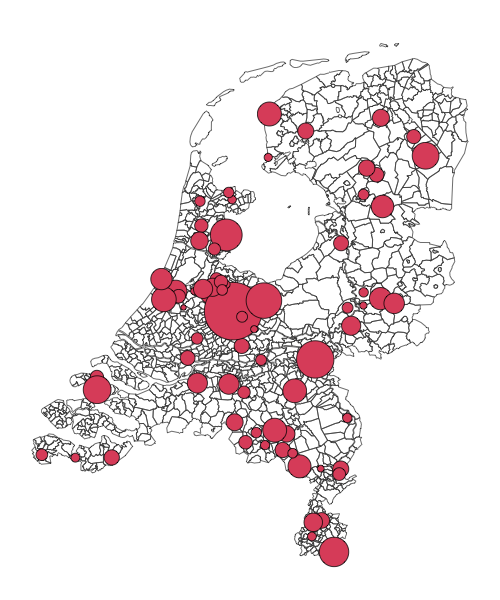
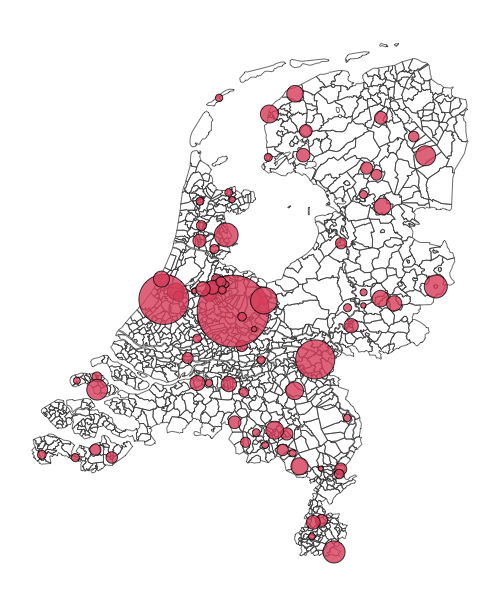
update current sample

diff --git a/content/sample.md b/content/sample.md
@@ -6,7 +6,7 @@ type: "page"
 
 The project samples a number of municipalities. The reason for this that reason is that we want to be able to infer incomes for the missing population, which is only possible if we have the entire taxed population for a given municipality. 
 
-![](../images/currentsample.png)
+![Municipalities in the sample, scaled by number of observations over the entire 1850–1920 period](/images/currentsample.png)
 
 |province      |municipality                |  dec|     N|
 |:-------------|:---------------------------|----:|-----:|
@@ -46,10 +46,14 @@ The project samples a number of municipalities. The reason for this that reason 
 |Drenthe       |Zuidwolde                   | 1900|  1133|
 |Drenthe       |Zuidwolde                   | 1910|   705|
 |Drenthe       |Zuidwolde                   | 1920|   927|
+|Friesland     |Doniawerstal                | 1860|   507|
+|Friesland     |Doniawerstal                | 1870|   761|
+|Friesland     |Doniawerstal                | 1880|   888|
+|Friesland     |Doniawerstal                | 1900|   843|
 |Friesland     |Harlingen                   | 1860|   545|
-|Friesland     |Harlingen                   | 1870|   566|
-|Friesland     |Harlingen                   | 1880|    36|
-|Friesland     |Harlingen                   | 1890|   969|
+|Friesland     |Harlingen                   | 1870|   572|
+|Friesland     |Harlingen                   | 1880|    37|
+|Friesland     |Harlingen                   | 1890|   978|
 |Friesland     |Harlingen                   | 1910|  1316|
 |Friesland     |Harlingen                   | 1920|  1864|
 |Friesland     |Hindeloopen                 | 1860|   136|
@@ -57,17 +61,32 @@ The project samples a number of municipalities. The reason for this that reason 
 |Friesland     |Hindeloopen                 | 1880|   112|
 |Friesland     |Hindeloopen                 | 1890|   123|
 |Friesland     |Hindeloopen                 | 1900|   145|
+|Friesland     |Hindeloopen                 | 1910|   148|
+|Friesland     |Hindeloopen                 | 1920|   272|
 |Friesland     |Rauwerderhem                | 1860|   365|
 |Friesland     |Rauwerderhem                | 1870|   383|
+|Friesland     |Rauwerderhem                | 1880|   314|
 |Friesland     |Rauwerderhem                | 1900|   341|
 |Friesland     |Rauwerderhem                | 1910|   535|
 |Friesland     |Rauwerderhem                | 1920|   744|
+|Friesland     |Vlieland                    | 1860|    99|
+|Friesland     |Vlieland                    | 1870|   117|
+|Friesland     |Vlieland                    | 1880|   109|
+|Friesland     |Vlieland                    | 1890|   126|
+|Friesland     |Vlieland                    | 1900|   126|
+|Friesland     |Vlieland                    | 1910|   163|
+|Friesland     |Vlieland                    | 1920|   157|
+|Friesland     |het Bildt                   | 1870|   578|
+|Friesland     |het Bildt                   | 1880|   572|
+|Friesland     |het Bildt                   | 1890|   552|
+|Friesland     |het Bildt                   | 1900|   599|
+|Friesland     |het Bildt                   | 1920|  2256|
 |Gelderland    |Beesd                       | 1870|   232|
 |Gelderland    |Beesd                       | 1880|   245|
 |Gelderland    |Beesd                       | 1890|   252|
 |Gelderland    |Beesd                       | 1900|   319|
 |Gelderland    |Beesd                       | 1910|   385|
-|Gelderland    |Beesd                       | 1920|   678|
+|Gelderland    |Beesd                       | 1920|   679|
 |Gelderland    |Borculo                     | 1870|   300|
 |Gelderland    |Borculo                     | 1880|   687|
 |Gelderland    |Borculo                     | 1890|   775|
@@ -82,7 +101,7 @@ The project samples a number of municipalities. The reason for this that reason 
 |Gelderland    |Gorssel                     | 1880|   816|
 |Gelderland    |Hattem                      | 1890|   350|
 |Gelderland    |Hattem                      | 1910|   472|
-|Gelderland    |Hattem                      | 1920|  1255|
+|Gelderland    |Hattem                      | 1920|  1262|
 |Gelderland    |Lochem                      | 1870|   399|
 |Gelderland    |Lochem                      | 1890|   553|
 |Gelderland    |Lochem                      | 1900|   664|
@@ -91,12 +110,13 @@ The project samples a number of municipalities. The reason for this that reason 
 |Gelderland    |Nijmegen                    | 1890|  2975|
 |Gelderland    |Nijmegen                    | 1900|  4227|
 |Gelderland    |Nijmegen                    | 1910|  5682|
+|Gelderland    |Nijmegen                    | 1920| 12327|
 |Gelderland    |Varik                       | 1860|   149|
 |Gelderland    |Varik                       | 1870|   148|
 |Gelderland    |Varik                       | 1880|   140|
-|Gelderland    |Varik                       | 1890|   141|
-|Gelderland    |Varik                       | 1900|   127|
-|Gelderland    |Varik                       | 1910|   206|
+|Gelderland    |Varik                       | 1890|   143|
+|Gelderland    |Varik                       | 1900|   128|
+|Gelderland    |Varik                       | 1910|   213|
 |Gelderland    |Varik                       | 1920|   192|
 |Gelderland    |Warnsveld                   | 1880|   488|
 |Limburg       |Baexem                      | 1910|   256|
@@ -110,13 +130,13 @@ The project samples a number of municipalities. The reason for this that reason 
 |Limburg       |Beek (L.)                   | 1920|   909|
 |Limburg       |Berg en Terblijt            | 1900|   135|
 |Limburg       |Berg en Terblijt            | 1910|   155|
-|Limburg       |Berg en Terblijt            | 1920|   434|
+|Limburg       |Berg en Terblijt            | 1920|   436|
 |Limburg       |Maasniel                    | 1860|   276|
 |Limburg       |Maasniel                    | 1910|   521|
 |Limburg       |Maasniel                    | 1920|   693|
 |Limburg       |Meerlo                      | 1890|   113|
 |Limburg       |Meerlo                      | 1900|   195|
-|Limburg       |Meerlo                      | 1910|   112|
+|Limburg       |Meerlo                      | 1910|   207|
 |Limburg       |Meerlo                      | 1920|   400|
 |Limburg       |Schinnen                    | 1880|   311|
 |Limburg       |Schinnen                    | 1890|   301|
@@ -130,16 +150,16 @@ The project samples a number of municipalities. The reason for this that reason 
 |Limburg       |Vaals                       | 1860|   353|
 |Limburg       |Vaals                       | 1870|   488|
 |Limburg       |Vaals                       | 1880|   805|
-|Limburg       |Vaals                       | 1890|   975|
+|Limburg       |Vaals                       | 1890|  1004|
 |Limburg       |Vaals                       | 1900|  1346|
-|Limburg       |Vaals                       | 1910|  1587|
+|Limburg       |Vaals                       | 1910|  1611|
 |Limburg       |Vaals                       | 1920|  2420|
 |Limburg       |Weert                       | 1900|  1161|
 |Limburg       |Weert                       | 1910|  1399|
 |Limburg       |Weert                       | 1920|  2314|
 |Noord-Brabant |Bladel en Netersel          | 1860|   224|
 |Noord-Brabant |Bladel en Netersel          | 1870|   232|
-|Noord-Brabant |Bladel en Netersel          | 1880|   225|
+|Noord-Brabant |Bladel en Netersel          | 1880|   230|
 |Noord-Brabant |Bladel en Netersel          | 1890|   230|
 |Noord-Brabant |Bladel en Netersel          | 1900|   211|
 |Noord-Brabant |Bladel en Netersel          | 1910|   253|
@@ -147,13 +167,13 @@ The project samples a number of municipalities. The reason for this that reason 
 |Noord-Brabant |Eindhoven                   | 1860|   348|
 |Noord-Brabant |Eindhoven                   | 1870|   507|
 |Noord-Brabant |Eindhoven                   | 1880|   438|
-|Noord-Brabant |Eindhoven                   | 1890|   380|
+|Noord-Brabant |Eindhoven                   | 1890|   392|
 |Noord-Brabant |Eindhoven                   | 1900|   429|
 |Noord-Brabant |Eindhoven                   | 1910|   992|
 |Noord-Brabant |Eindhoven                   | 1920|  2171|
 |Noord-Brabant |Geldrop                     | 1860|   290|
 |Noord-Brabant |Geldrop                     | 1870|   375|
-|Noord-Brabant |Geldrop                     | 1880|   345|
+|Noord-Brabant |Geldrop                     | 1880|   353|
 |Noord-Brabant |Geldrop                     | 1890|   297|
 |Noord-Brabant |Geldrop                     | 1900|   266|
 |Noord-Brabant |Geldrop                     | 1910|   379|
@@ -191,6 +211,9 @@ The project samples a number of municipalities. The reason for this that reason 
 |Noord-Brabant |Made en Drimmelen           | 1900|   552|
 |Noord-Brabant |Made en Drimmelen           | 1910|   632|
 |Noord-Brabant |Made en Drimmelen           | 1920|   982|
+|Noord-Brabant |Raamsdonk                   | 1860|   311|
+|Noord-Brabant |Raamsdonk                   | 1870|   301|
+|Noord-Brabant |Raamsdonk                   | 1880|   257|
 |Noord-Brabant |Riethoven                   | 1860|   121|
 |Noord-Brabant |Riethoven                   | 1870|   148|
 |Noord-Brabant |Riethoven                   | 1880|   102|
@@ -214,9 +237,9 @@ The project samples a number of municipalities. The reason for this that reason 
 |Noord-Brabant |Waalwijk                    | 1870|   287|
 |Noord-Brabant |Waalwijk                    | 1880|   382|
 |Noord-Brabant |Waalwijk                    | 1890|   385|
-|Noord-Brabant |Waalwijk                    | 1900|   431|
-|Noord-Brabant |Waalwijk                    | 1910|   430|
-|Noord-Brabant |Waalwijk                    | 1920|  1713|
+|Noord-Brabant |Waalwijk                    | 1900|   432|
+|Noord-Brabant |Waalwijk                    | 1910|   431|
+|Noord-Brabant |Waalwijk                    | 1920|  1722|
 |Noord-Holland |Edam                        | 1860|   741|
 |Noord-Holland |Edam                        | 1870|   785|
 |Noord-Holland |Edam                        | 1880|   965|
@@ -246,15 +269,19 @@ The project samples a number of municipalities. The reason for this that reason 
 |Noord-Holland |Zaandijk                    | 1860|   189|
 |Noord-Holland |Zaandijk                    | 1870|   227|
 |Noord-Holland |Zaandijk                    | 1880|   302|
-|Noord-Holland |Zaandijk                    | 1890|   359|
+|Noord-Holland |Zaandijk                    | 1890|   361|
 |Noord-Holland |Zaandijk                    | 1910|   579|
 |Noord-Holland |Zaandijk                    | 1920|  1191|
-|Noord-Holland |Zuid-Scharwoude             | 1860|   109|
-|Noord-Holland |Zuid-Scharwoude             | 1870|   108|
+|Noord-Holland |Zuid-Scharwoude             | 1860|   110|
+|Noord-Holland |Zuid-Scharwoude             | 1870|   109|
 |Noord-Holland |Zuid-Scharwoude             | 1880|   160|
 |Noord-Holland |Zuid-Scharwoude             | 1890|   197|
 |Noord-Holland |Zuid-Scharwoude             | 1900|   197|
 |Noord-Holland |Zuid-Scharwoude             | 1910|   229|
+|Overijssel    |Enschede                    | 1880|   624|
+|Overijssel    |Enschede                    | 1890|  1679|
+|Overijssel    |Enschede                    | 1900|  2046|
+|Overijssel    |Enschede                    | 1920|  4386|
 |Utrecht       |Abcoude-Baambrugge          | 1860|   163|
 |Utrecht       |Abcoude-Baambrugge          | 1870|   177|
 |Utrecht       |Abcoude-Baambrugge          | 1880|   189|
@@ -262,20 +289,20 @@ The project samples a number of municipalities. The reason for this that reason 
 |Utrecht       |Abcoude-Baambrugge          | 1900|   225|
 |Utrecht       |Abcoude-Baambrugge          | 1910|   272|
 |Utrecht       |Abcoude-Baambrugge          | 1920|   416|
-|Utrecht       |Abcoude-Proosdij            | 1870|   168|
+|Utrecht       |Abcoude-Proosdij            | 1870|   308|
 |Utrecht       |Abcoude-Proosdij            | 1880|   187|
 |Utrecht       |Abcoude-Proosdij            | 1890|   208|
 |Utrecht       |Abcoude-Proosdij            | 1900|   212|
 |Utrecht       |Abcoude-Proosdij            | 1910|   240|
 |Utrecht       |Abcoude-Proosdij            | 1920|   441|
-|Utrecht       |Amersfoort                  | 1900|  2053|
-|Utrecht       |Amersfoort                  | 1910|  2035|
+|Utrecht       |Amersfoort                  | 1900|  2054|
+|Utrecht       |Amersfoort                  | 1910|  2055|
 |Utrecht       |Amersfoort                  | 1920|  7545|
 |Utrecht       |Bunnik                      | 1860|    77|
 |Utrecht       |Bunnik                      | 1870|   155|
 |Utrecht       |Bunnik                      | 1880|    98|
 |Utrecht       |Bunnik                      | 1890|   102|
-|Utrecht       |Bunnik                      | 1900|   136|
+|Utrecht       |Bunnik                      | 1900|   255|
 |Utrecht       |Bunnik                      | 1910|   173|
 |Utrecht       |Bunnik                      | 1920|   356|
 |Utrecht       |Cothen                      | 1860|    58|
@@ -294,16 +321,19 @@ The project samples a number of municipalities. The reason for this that reason 
 |Utrecht       |Mijdrecht                   | 1890|   696|
 |Utrecht       |Mijdrecht                   | 1900|   348|
 |Utrecht       |Mijdrecht                   | 1920|  1003|
-|Utrecht       |Utrecht                     | 1880|  1213|
-|Utrecht       |Utrecht                     | 1890|  8210|
-|Utrecht       |Utrecht                     | 1910| 21158|
-|Utrecht       |Vinkeveen en Waverveen      | 1860|   215|
+|Utrecht       |Utrecht                     | 1870|  5574|
+|Utrecht       |Utrecht                     | 1880|  7186|
+|Utrecht       |Utrecht                     | 1890|  8523|
+|Utrecht       |Utrecht                     | 1900| 10659|
+|Utrecht       |Utrecht                     | 1910| 21254|
+|Utrecht       |Utrecht                     | 1920| 32038|
+|Utrecht       |Vinkeveen en Waverveen      | 1860|   238|
 |Utrecht       |Vinkeveen en Waverveen      | 1870|   235|
-|Utrecht       |Vinkeveen en Waverveen      | 1880|   369|
-|Utrecht       |Vinkeveen en Waverveen      | 1890|   369|
+|Utrecht       |Vinkeveen en Waverveen      | 1880|   401|
+|Utrecht       |Vinkeveen en Waverveen      | 1890|   401|
 |Utrecht       |Vinkeveen en Waverveen      | 1900|   512|
 |Utrecht       |Vinkeveen en Waverveen      | 1910|   541|
-|Utrecht       |Vinkeveen en Waverveen      | 1920|   823|
+|Utrecht       |Vinkeveen en Waverveen      | 1920|   824|
 |Utrecht       |Vreeland                    | 1880|   109|
 |Utrecht       |Vreeland                    | 1890|   141|
 |Utrecht       |Vreeland                    | 1900|   137|
@@ -327,16 +357,29 @@ The project samples a number of municipalities. The reason for this that reason 
 |Zeeland       |Brouwershaven               | 1900|   206|
 |Zeeland       |Brouwershaven               | 1910|   290|
 |Zeeland       |Brouwershaven               | 1920|   370|
+|Zeeland       |Haamstede                   | 1860|    80|
+|Zeeland       |Haamstede                   | 1870|    81|
+|Zeeland       |Haamstede                   | 1880|    91|
+|Zeeland       |Haamstede                   | 1890|   101|
+|Zeeland       |Haamstede                   | 1900|   113|
+|Zeeland       |Haamstede                   | 1910|   135|
+|Zeeland       |Haamstede                   | 1920|   193|
 |Zeeland       |Hulst                       | 1860|   275|
 |Zeeland       |Hulst                       | 1870|   206|
 |Zeeland       |Hulst                       | 1880|   249|
 |Zeeland       |Hulst                       | 1900|   386|
 |Zeeland       |Hulst                       | 1910|   601|
 |Zeeland       |Hulst                       | 1920|   440|
+|Zeeland       |Philippine                  | 1860|    89|
+|Zeeland       |Philippine                  | 1870|   125|
+|Zeeland       |Philippine                  | 1880|   144|
 |Zeeland       |Philippine                  | 1890|   140|
 |Zeeland       |Philippine                  | 1900|   154|
 |Zeeland       |Philippine                  | 1910|   169|
 |Zeeland       |Philippine                  | 1920|   265|
+|Zeeland       |Zaamslag                    | 1900|   400|
+|Zeeland       |Zaamslag                    | 1910|   875|
+|Zeeland       |Zaamslag                    | 1920|   792|
 |Zeeland       |Zierikzee                   | 1860|   842|
 |Zeeland       |Zierikzee                   | 1870|   632|
 |Zeeland       |Zierikzee                   | 1880|   871|
@@ -356,7 +399,11 @@ The project samples a number of municipalities. The reason for this that reason 
 |Zuid-Holland  |Bergambacht                 | 1880|   222|
 |Zuid-Holland  |Bergambacht                 | 1900|   372|
 |Zuid-Holland  |Bergambacht                 | 1910|   438|
-|Zuid-Holland  |Leiden                      | 1890|  5603|
+|Zuid-Holland  |Leiden                      | 1880|  5058|
+|Zuid-Holland  |Leiden                      | 1890|  5595|
+|Zuid-Holland  |Leiden                      | 1900|  7669|
+|Zuid-Holland  |Leiden                      | 1910|  8061|
+|Zuid-Holland  |Leiden                      | 1920| 14694|
 |Zuid-Holland  |Nieuwveen                   | 1900|   138|
 |Zuid-Holland  |Nieuwveen                   | 1910|   152|
 |Zuid-Holland  |Nieuwveen                   | 1920|   216|
